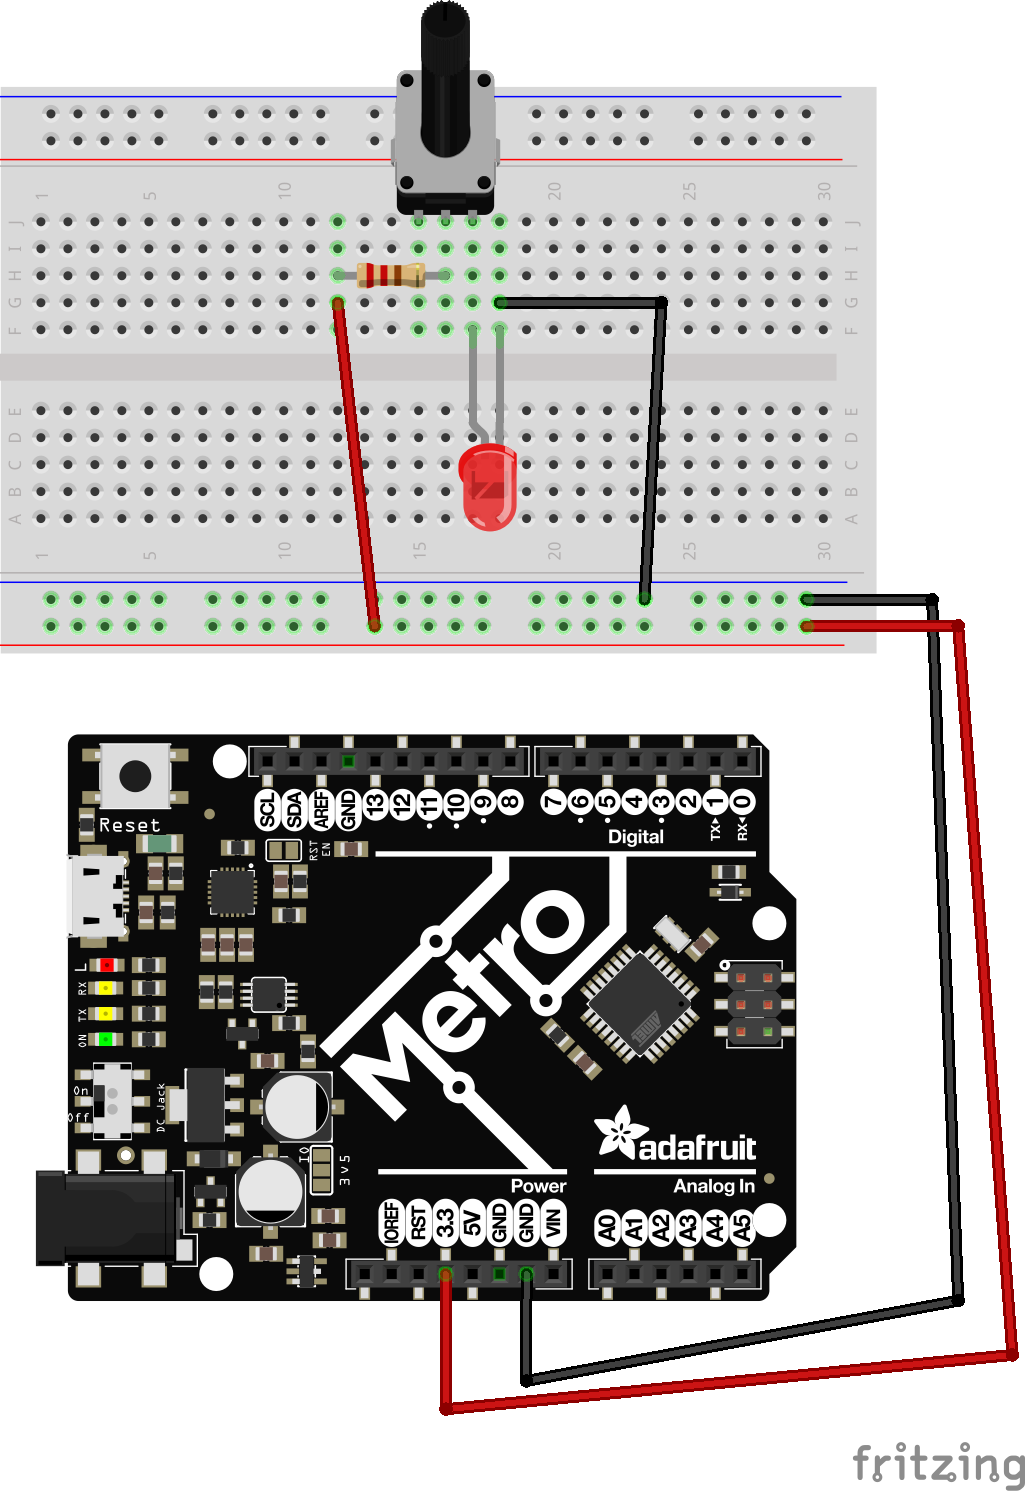
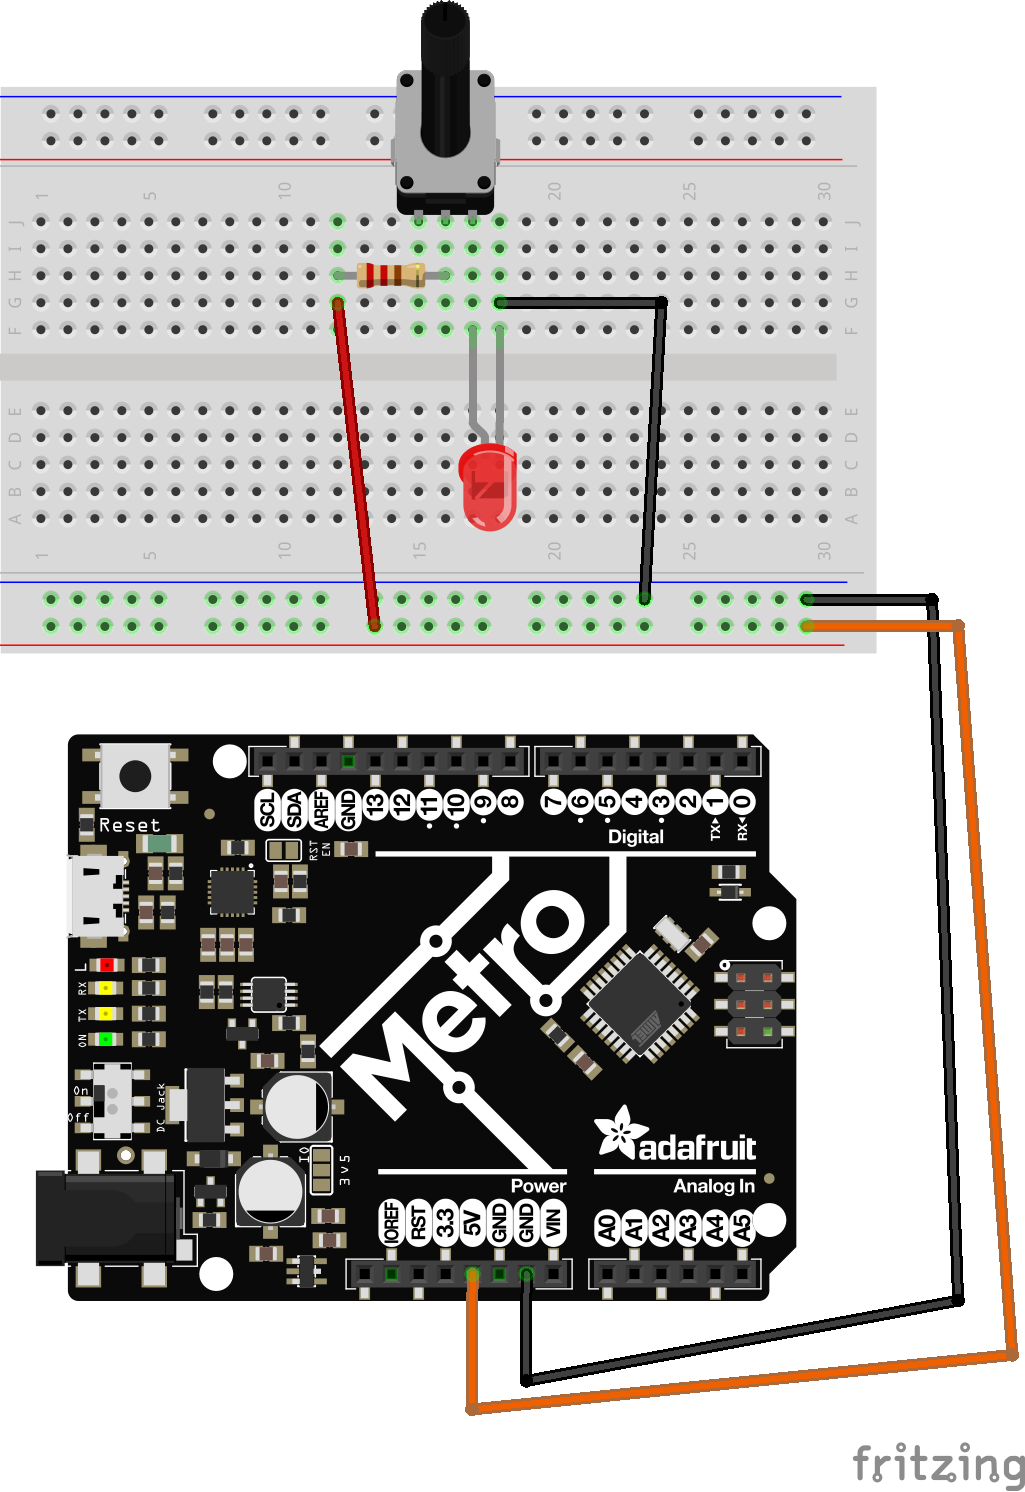
breadboard tutorials update
Added more clarity to images for breadboarding tutorial images. 5v, 3V, and base tutorials.

diff --git a/learning_modules/physical_component_tutorials/breadboard_basics/breadboard_basics.md b/learning_modules/physical_component_tutorials/breadboard_basics/breadboard_basics.md
@@ -54,7 +54,12 @@ Let's wire up x2 LEDs in "series". We'll add another LED to our circuit, but thi
 ![series](series.png)
 
 * In this circuit, To not get too technical, our Voltage drops by 1/2 between the 2 components, but our total current stays the same.
-* Our output voltage is 1/2 as bright, but our battery lasts the same as if only a single, brighter LED was being lit. 
+* As you likely noticed, because of our voltage drop, nothing will turn on. This is because we're only providing 3.3V to our LED's, and with 1.15V power, it's simply not enough power to turn on our LED. 
+
+To fix this, swap your 3.3V power to 5V power. 
+![series5v](servies5v.png)
+
+* Now, our output voltage is 1/2 of 5V, or 2.5V, which is suffient for drivng 2 LEDs. Our LEDs are now half as bright as a single LED running on 5V, but our battery lasts the same as if only a single, brighter LED was being lit. 
 
 ### 2LEDs in parallel
 Lets now change this circuit into a parallel circuit. Observe what happens to our LEDs this time. How has the brightness been changed? 
@@ -80,6 +85,7 @@ LEDs can also have dimmers applied to them to adjust their brightness. We've bee
 ![pot](pot_function.png)
 
 Let's wire up a potentiometer. There are x3 pins on a potentiometer (or "pot" for short), but for this we'll only use 2. 
+* **note:** You'll want to connect your Pot to 5V power, not 3V. 
 
 ![potdiagram](pot_dimmer_diagram.png)
 

diff --git a/learning_modules/programming_tutorials/variables/variables.md b/learning_modules/programming_tutorials/variables/variables.md
@@ -33,6 +33,7 @@ rover_name = "Jenkins"
 has_rc_control = True
 ```
 3. After creating 4 variables, print each variable and observe the output. Notice, we *do not put variable names "in between quotes"* as only string variable values are in between "quotes". 
+
 ```
 print(power)
 print(light_intensity)
@@ -44,6 +45,7 @@ print("light_intensity")
 print("rover_name")
 print("has_rc_control")
 ```
+
 4. Observe the differences between these 2 sets of print statements.
     - The first set printed the *values* of the variables
     - The second set printed 4 different "string variables", rather than their variable values, because all 3 were surrounded by "quotation marks" 
@@ -109,8 +111,3 @@ print("Total sum in wallet:", wallet)
 print("Total sum in Bank:, bank_account)
 print("Total money all together:", total_money)
 ```
-
-### Quick Links
-* [Home](/README.md)
-* [Tutorials](/learning_modules/tutorials_list.md)
-* [Circuit Python Cheat Sheet](/learning_modules/circuit_python_cheatsheet.md)

diff --git a/learning_modules/physical_component_tutorials/basic_led_debug/single_led_0.md b/learning_modules/physical_component_tutorials/basic_led_debug/single_led_0.md
@@ -25,7 +25,7 @@ You will need:
 
 
 ## Code:
-Use the code above this README.md called "basic_led_debug.py". If you click that link, you can copy the code to your M4 board. 
+Use the code above this README.md called [basic_led_debug.py](basic_led_debug.py)". If you click that link, you can copy the code to your M4 board. 
 
 ![Screenshot 2023-12-12 at 14 21 25](https://github.com/MrPrattASH/Robotics-II-Circuit-Python/assets/101632496/2f71c790-ae46-434a-9891-fca0e7a25883)
 
@@ -35,9 +35,4 @@ You can click this button to copy all code once a .py file is open.
 
 ![Screenshot 2023-12-12 at 14 19 22](https://github.com/MrPrattASH/Robotics-II-Circuit-Python/assets/101632496/a96d7b88-331a-4780-9de5-3fb510c90558)
 
-
-
-### Quick Links
-* [Home](/README.md)
-* [Tutorials](/learning_modules/tutorials_list.md)
-* [Circuit Python Cheat Sheet](/learning_modules/circuit_python_cheatsheet.md)
+alternatively, view the code [here](basic_led_debug.py)

diff --git a/learning_modules/tutorials_list.md b/learning_modules/tutorials_list.md
@@ -8,7 +8,7 @@ Each tutorial has a *Level 0* and corresponding *Level 1* tutorial associated wi
 
 ## The Basics
 Before moving on to any level 0/1 tutorials, ensure you have completed this initial tutorial. 
-* [How to Write & Save Code on Circuit Python Boards](programming_tutorials/circuit_python_basics/python_basics.md)
+* Base 0.0: [How to Write & Save Code on Circuit Python Boards](programming_tutorials/circuit_python_basics/python_basics.md)
 
 ## Level 0:
 * 0.0: [Python Syntax](https://sites.google.com/view/circuitpython/tutorials/set-up/hello-python)
